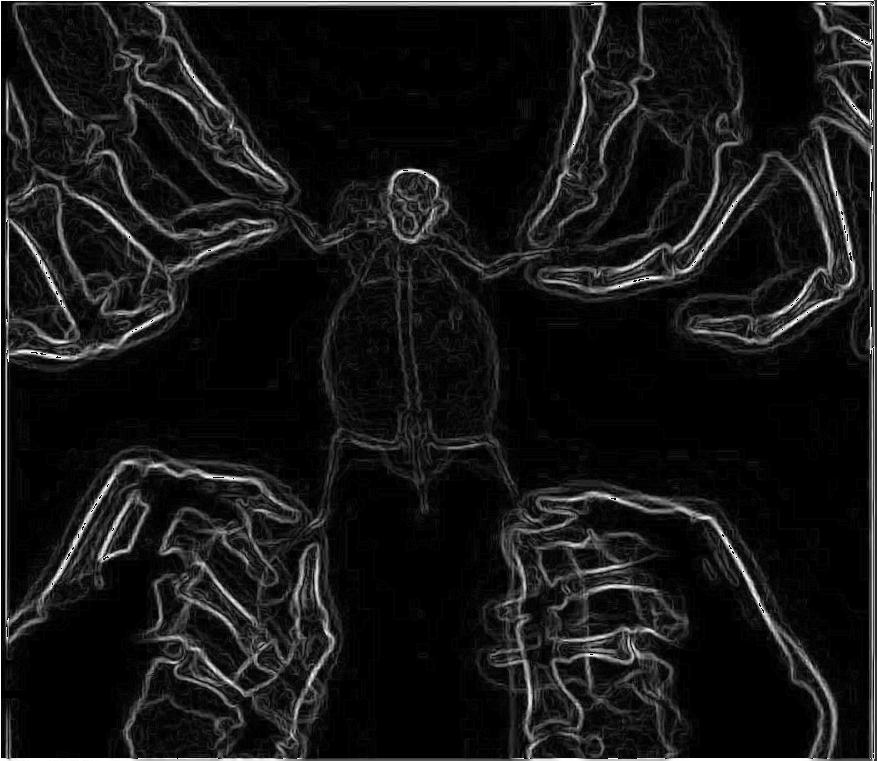
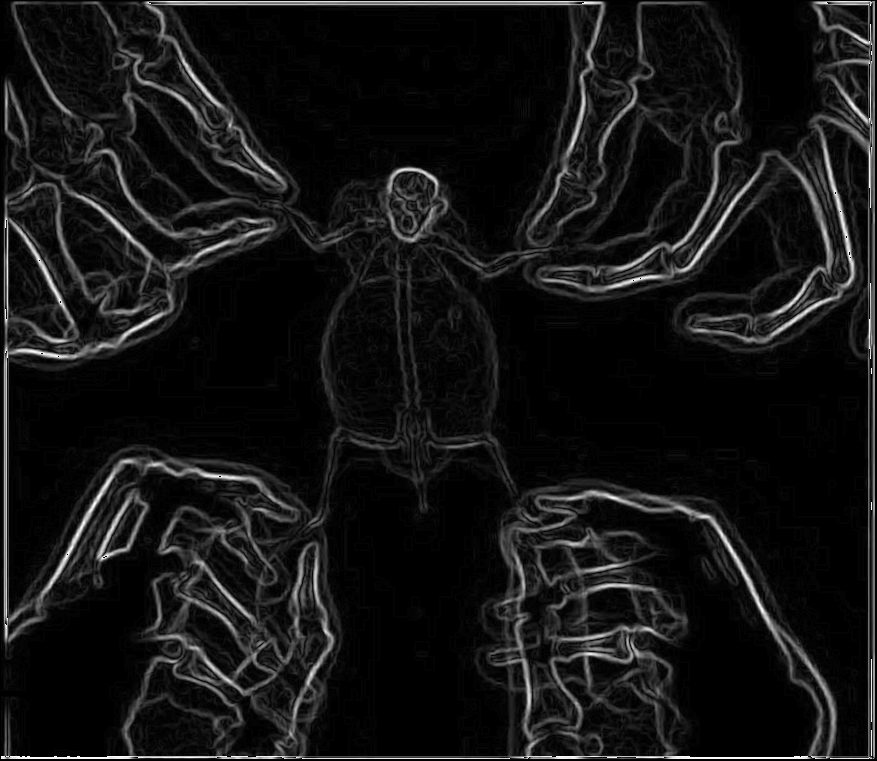
blur added

diff --git a/main.c b/main.c
@@ -12,9 +12,6 @@ typedef struct {
 	int width;
 	int height;
 	unsigned char *imageData;
-	unsigned char *gx;
-	unsigned char *gy;
-
 } PGM;
 
 
@@ -30,11 +27,10 @@ void padding(PGM* image) {
 	} 
 }
 
-int convolution(PGM* image, int kernel[3][3], int row, int col) {
+int convolution(PGM* image, int kernel[3][3], int row, int col, int dim) {
 	int i, j, sum = 0;
-	for (i = 0; i < 3; i++) {
-		for (j = 0; j < 3; j++) {
-			// printf("convolution\n");
+	for (i = 0; i < dim; i++) {
+		for (j = 0; j < dim; j++) {
 			sum += image->imageData[(i + row) * image->width + j + col] * kernel[i][j];
 		}
 	}
@@ -55,36 +51,37 @@ void sobel_edge_detector(PGM* image, PGM* out_image) {
 	
 	for (int i = 1; i < image->height - 2; i++) {
 		for (int j = 1; j < image->width - 2; j++) {
-			int gx = convolution(image, mx, i, j);
-			int gy = convolution(image, my, i, j);
+			int gx = convolution(image, mx, i, j, 3);
+			int gy = convolution(image, my, i, j, 3);
 			// printf("CHECK FOR I = %d J = %d\n", i, j);
 			out_image->imageData[i * image->width + j] = sqrt(gx * gx + gy * gy);
 		}
 	}
 }
 
-void min_max_normalization(PGM* image, int* matrix) {
-	int min = 1000000, max = 0;
-	
-	for(int i = 0; i < image->height; i++) {
-		for(int j = 0; j < image->width; j++) {
-			int index = i * image->width + j;
-			if (matrix[index] < min) {
-				min = matrix[index];
-			}
-			else if (matrix[index] > max) {
-				max = matrix[index];
-			}
+
+void blur(PGM* image, PGM* out_image) {
+	int blur3[3][3] = {
+		{1, 2, 1},
+		{2, 4, 2},
+		{1, 2, 1}
+	};
+
+
+	for (int i = 1; i < image->height - 2; i++) {
+		for (int j = 1; j < image->width - 2; j++) {
+			out_image->imageData[i * image->width + j] = convolution(image, blur3, i, j, 3) / 16;
 		}
 	}
-	
-	for(int i = 0; i < image->height; i++) {
-		for(int j = 0; j < image->width; j++) {
-			int index = i * image->width + j;
-			double ratio = (double) (matrix[index] - min) / (max - min);
-			matrix[index] = ratio * 255;
+}
+
+
+void copy(PGM* image, PGM* out_image) {
+	for (int i = 0; i < image->height; ++i) {
+		for (int j = 0; j < image->width; ++j) {
+			image->imageData[i * image->width + j] = out_image->imageData[i * image->width + j];
 		}
-	} 
+	}
 }
 
 int main() {
@@ -112,14 +109,13 @@ int main() {
 
 	for (int i = 0; i < InputWidth * InputHeight * n; i += 4) {
 		image.imageData[i / 4] = (pixel[i] * 11 + pixel[i + 1] * 16 + 5 * pixel[i + 2]) / 32;	
-		out_image.imageData[i / 4] = (pixel[i] * 11 + pixel[i + 1] * 16 + 5 * pixel[i + 2]) / 32;	
 	}
 
 
 	padding(&image);
+	blur(&image, &out_image);
+	copy(&image, &out_image);
 	sobel_edge_detector(&image, &out_image);	
-	// min_max_normalization(&out_image, out_image.imageData);
-
 
 	char *outputPath = "output.png";
 	char *outputPathSobel = "outputSobel.png";
